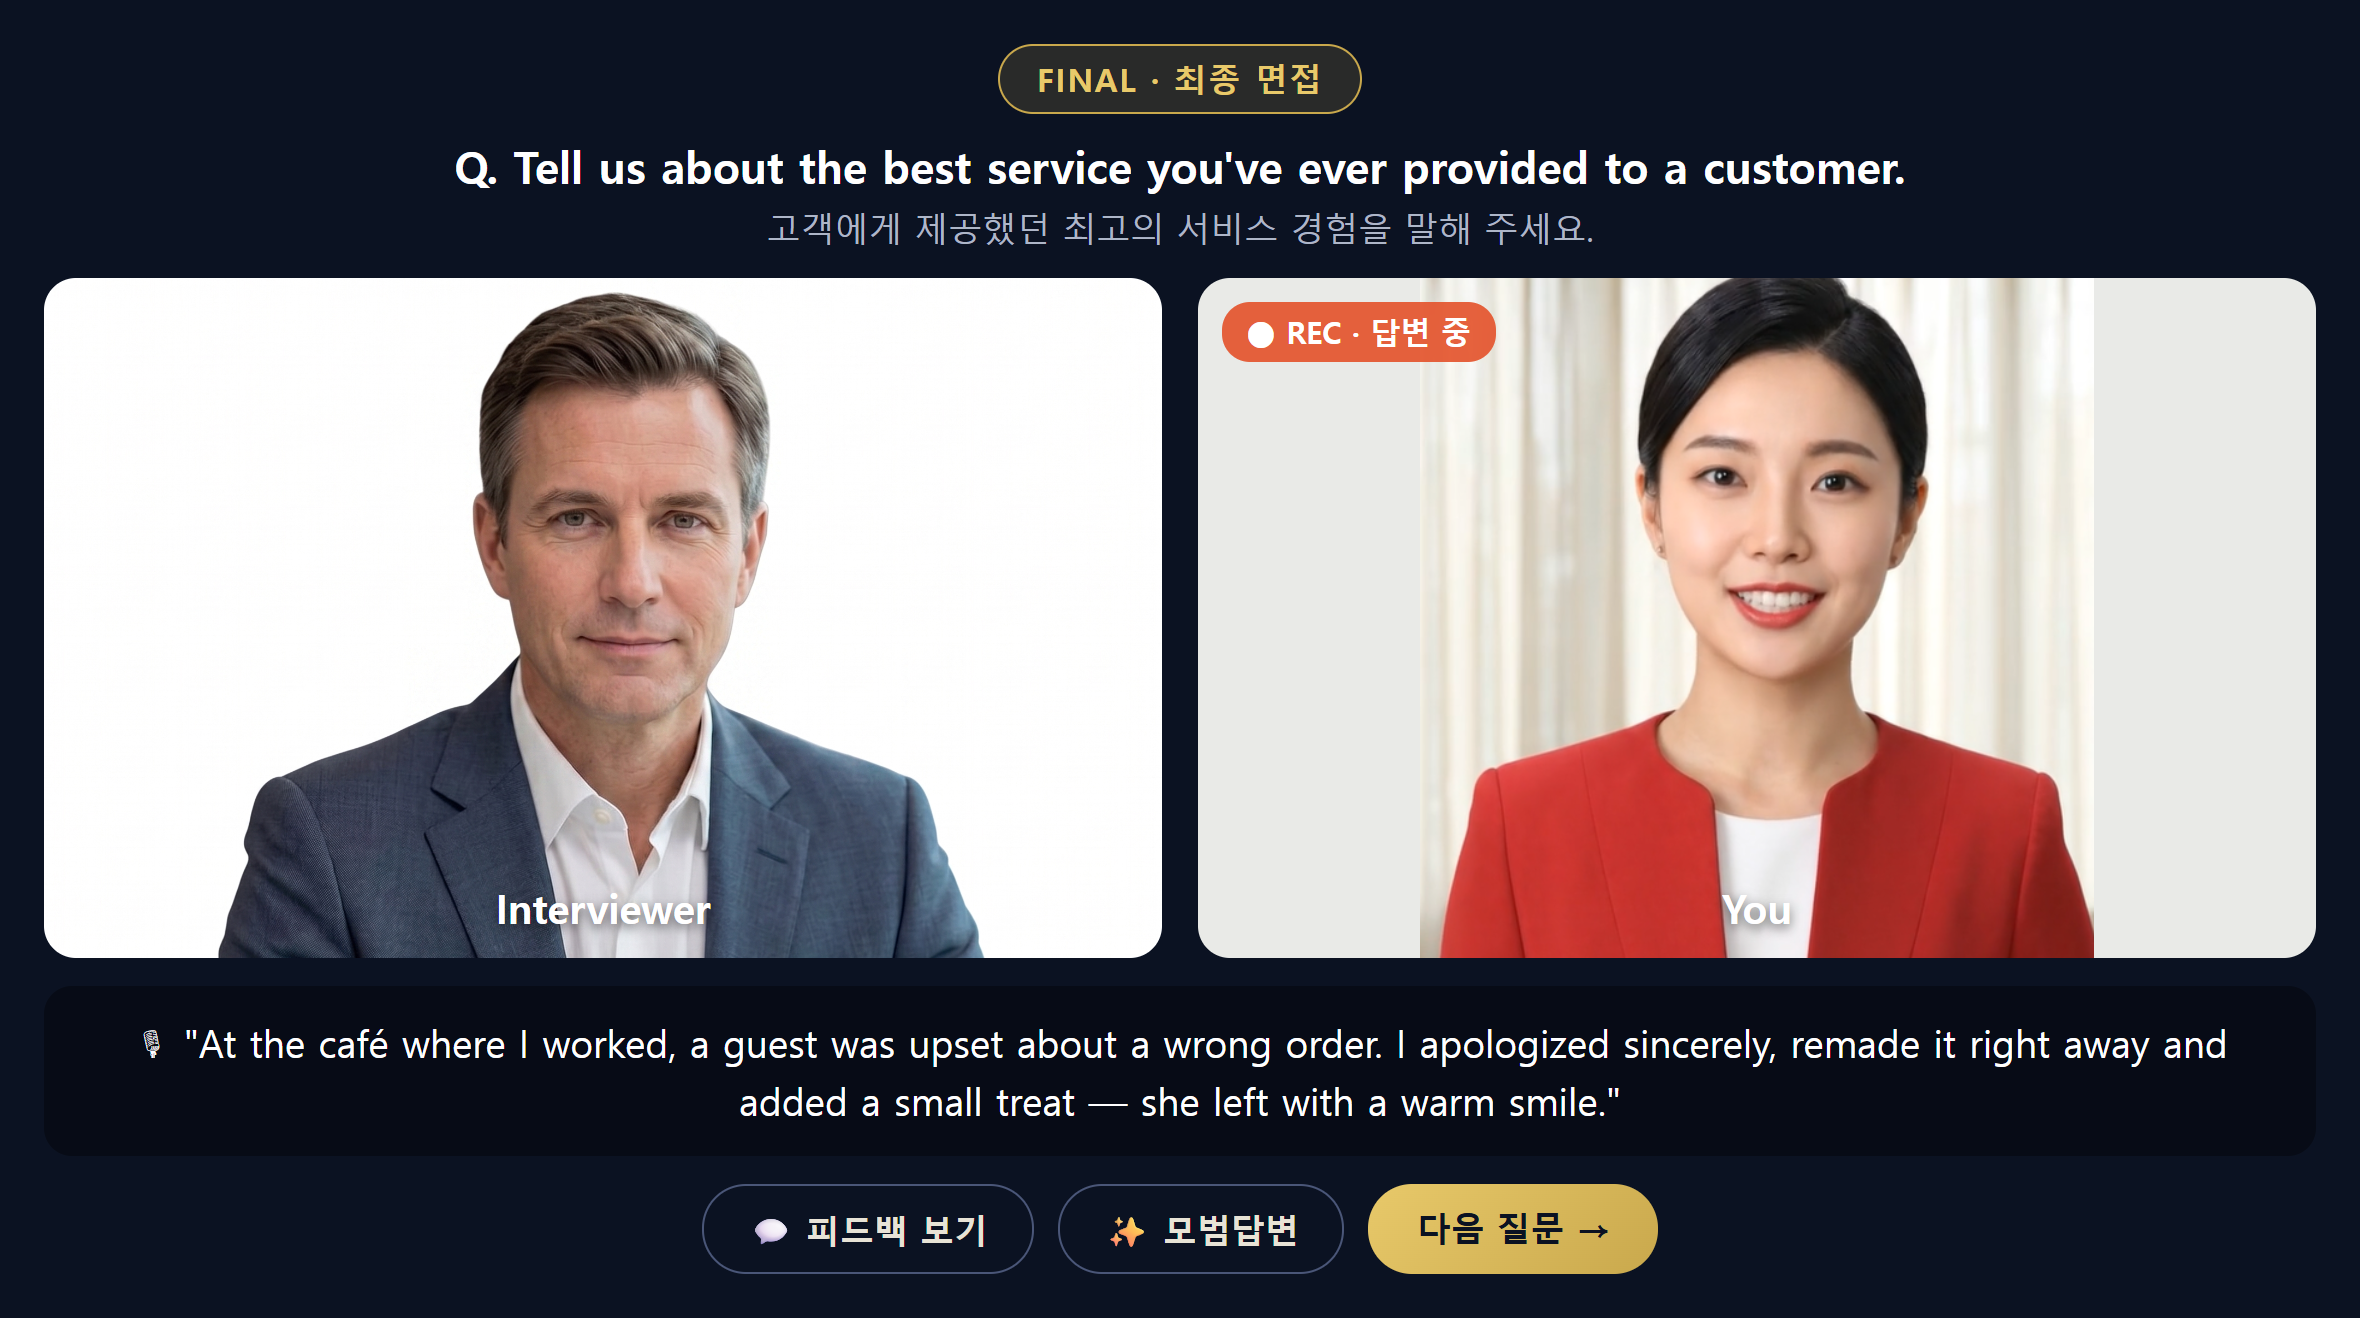
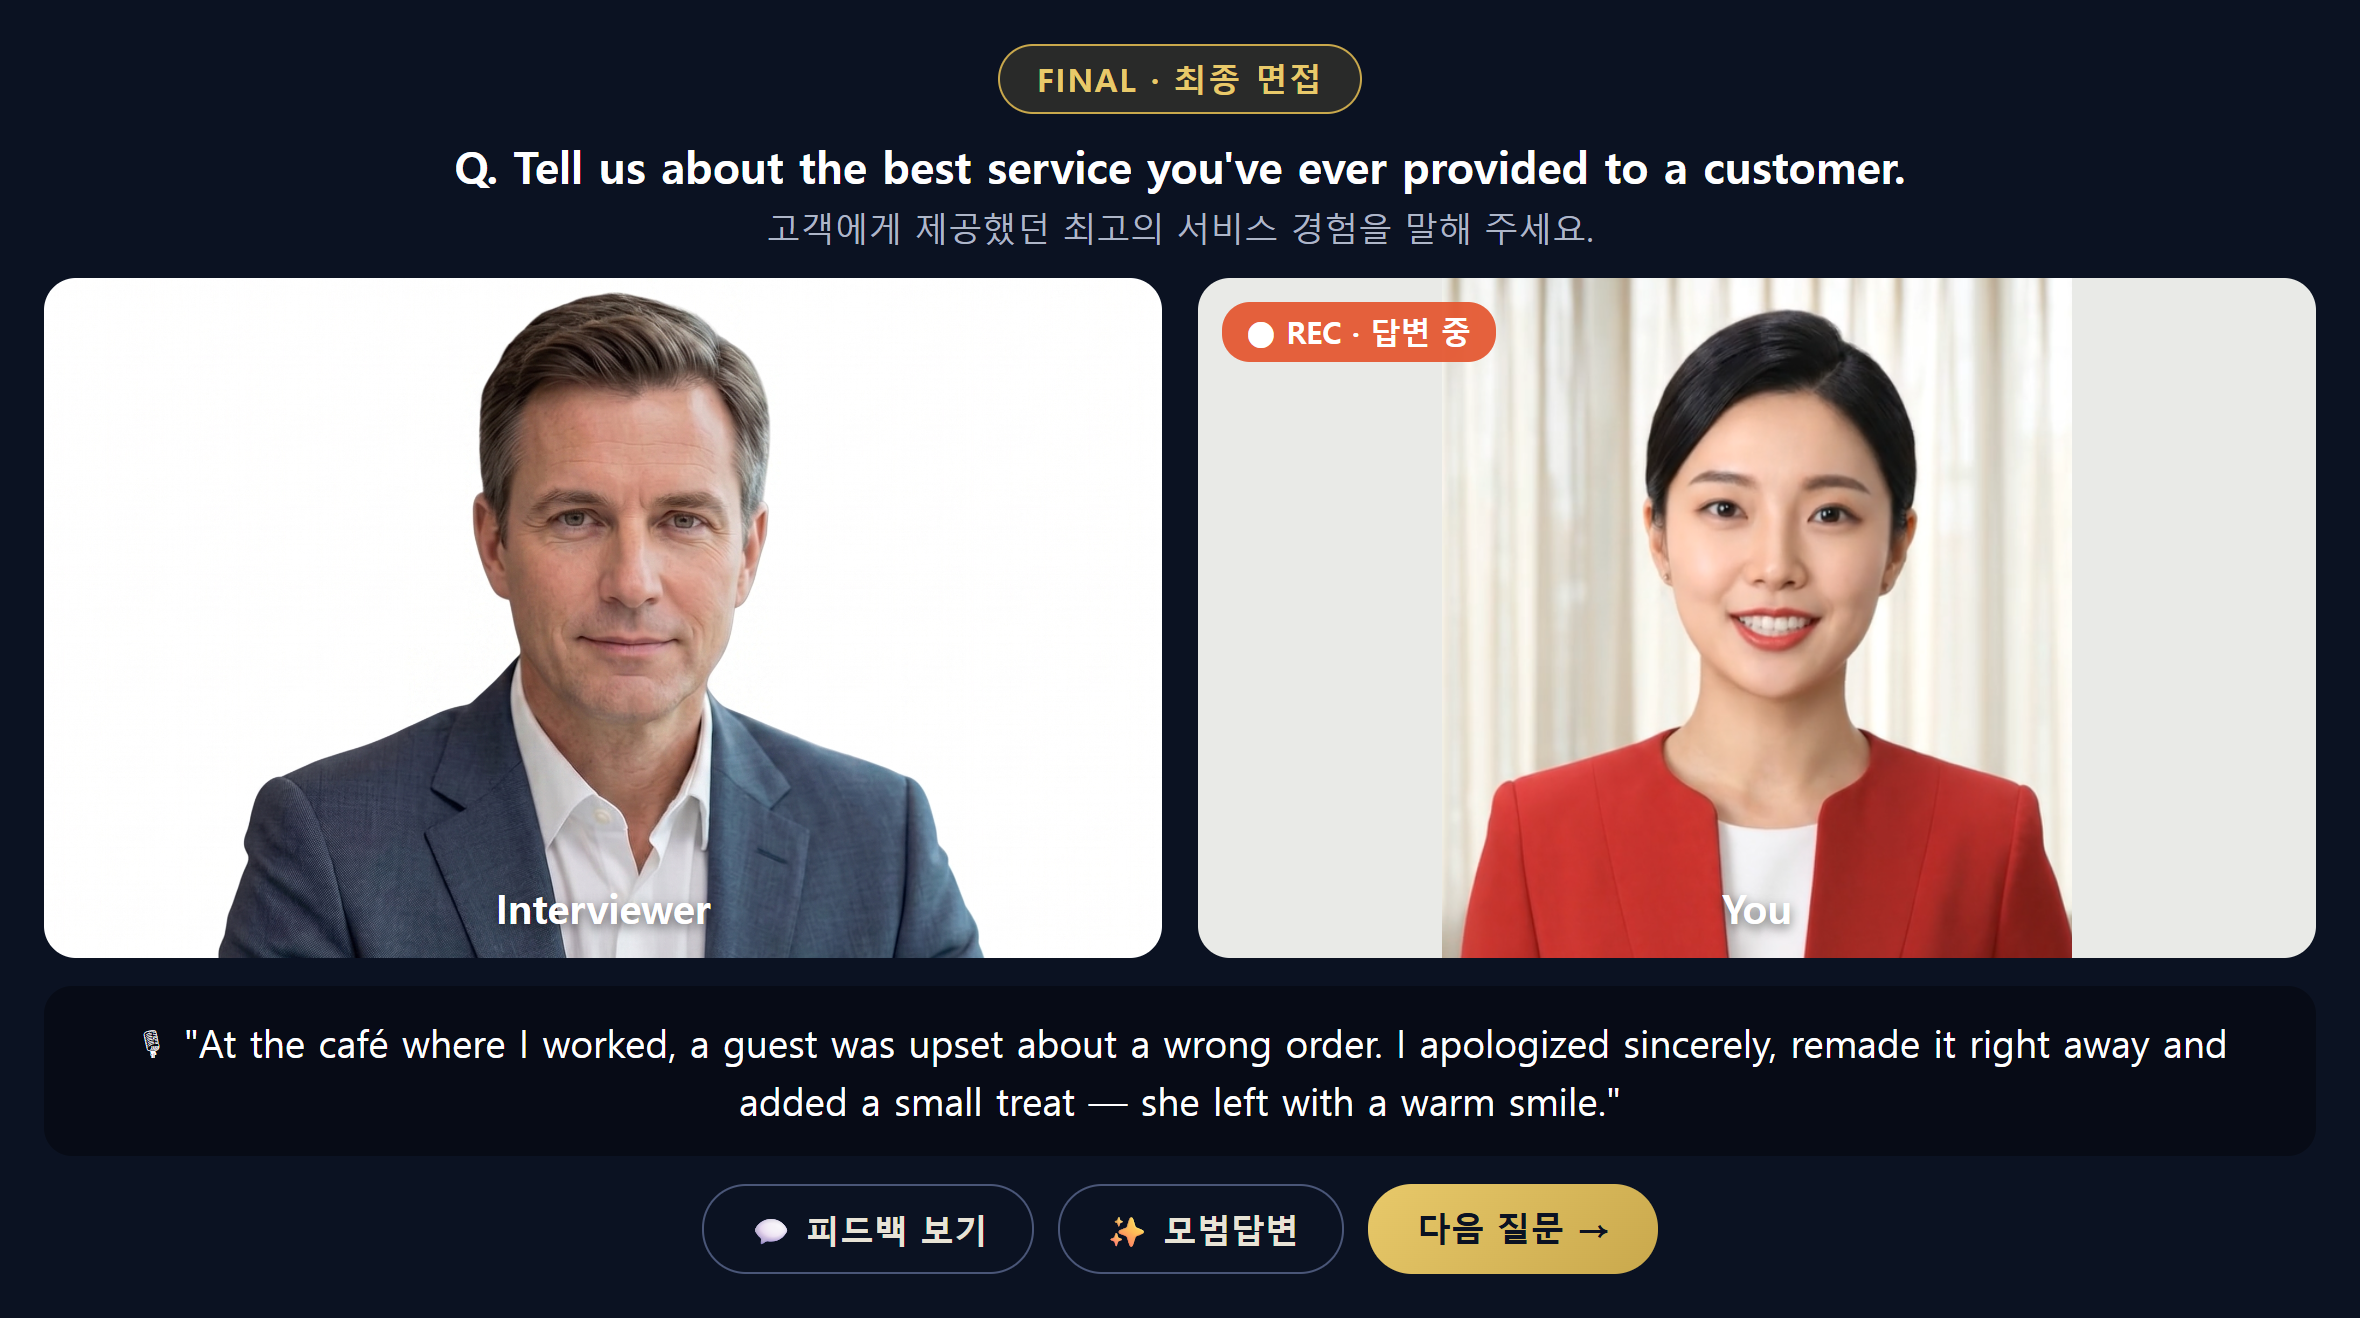
파이널·디스커션 You 높이 조정 — 윗머리 안 잘리게(아이보리 배경 유지, 얼굴 크기 유지)

Changed region(s): [[0.5877, 0.1866, 0.897, 0.7466]]

diff --git a/blog-drafts.html b/blog-drafts.html
@@ -519,7 +519,7 @@ hr{border:none;border-top:1px dashed var(--line);margin:30px 0;}
   <figure><img src="images/shot-disc1.png" alt="1차 디스커션 - 발표 주제와 핵심 포인트"><figcaption>실제 화면 — 1차 디스커션: 발표 주제와 핵심 포인트</figcaption></figure>
   <figure><img src="images/shot-disc2.png" alt="2차 디스커션 - 실전 우선순위 토론 시나리오"><figcaption>실제 화면 — 2차 디스커션: 실전 우선순위 토론 시나리오</figcaption></figure>
   <figure><img src="images/shot-debate.png" alt="싱가포르항공 디베이트 - 주제와 입장 선택"><figcaption>실제 화면 — 싱가포르식 1:1 디베이트: 주제·입장 선택</figcaption></figure>
-  <figure><img src="images/shot-discussion-live.png?v=7" alt="그룹 디스커션 실전 - 두 지망생이 주제로 토론하는 실시간 화면"><figcaption>실제 화면 — 두 지망생이 실시간으로 토론하고, 발언이 자막으로 기록돼요</figcaption></figure>
+  <figure><img src="images/shot-discussion-live.png?v=8" alt="그룹 디스커션 실전 - 두 지망생이 주제로 토론하는 실시간 화면"><figcaption>실제 화면 — 두 지망생이 실시간으로 토론하고, 발언이 자막으로 기록돼요</figcaption></figure>
 
   <h2>⑧ 워드슈팅 — 멈추지 않는 순발력</h2>
   <p>랜덤으로 주어지는 단어나 문장을 받아 60초 안에 즉석에서 영어로 발표해요. 원더풀크루에서는 Qatar처럼 순발력을 보는 면접에 대비하는 즉흥 스피치를, 타이머가 도는 동안 멈추지 않고 말하는 훈련으로 키웁니다.</p>
@@ -534,7 +534,7 @@ hr{border:none;border-top:1px dashed var(--line);margin:30px 0;}
   <p>실전 직전 최종 점검과 종합 실력 분석 리포트, 그리고 1:1 코치 피드백까지. 원더풀크루에서는 그동안의 연습 데이터를 모아 미소·답변·태도를 항목별로 확인하고, 마지막은 코치 피드백으로 실전 준비를 완성합니다.</p>
   <figure><img src="images/Gemini_Generated_Image_9vrkb49vrkb49vrk.png" alt="파이널 종합 분석"></figure>
   <figure><img src="images/shot-final.png" alt="파이널 - 면접관·항공사·영어 엑센트 선택 화면"><figcaption>실제 화면 — 항공사·면접관·엑센트를 골라 실전처럼 마무리해요</figcaption></figure>
-  <figure><img src="images/shot-final-live.png?v=14" alt="파이널 실전 - 남성 면접관과 베스트 서비스 질문·실시간 자막"><figcaption>실제 화면 — 실전처럼 질문을 받고, 답변이 자막으로 실시간 기록돼요</figcaption></figure>
+  <figure><img src="images/shot-final-live.png?v=15" alt="파이널 실전 - 남성 면접관과 베스트 서비스 질문·실시간 자막"><figcaption>실제 화면 — 실전처럼 질문을 받고, 답변이 자막으로 실시간 기록돼요</figcaption></figure>
 
   <hr>
   <p>사진 한 장부터 마지막 1:1 면접까지 — 흩어져 있던 준비를 한 곳에서, 매일 조금씩. 원더풀크루에서는 그 전 과정을 실제 화면으로 직접 연습하며 합격까지 함께 걸어드릴게요.</p>

diff --git a/landing.html b/landing.html
@@ -277,7 +277,7 @@ footer b{color:#fff;}
     <div class="vis-shot" style="margin-top:10px;"><img src="images/shot-disc1.png" alt="1차 디스커션 - 발표 주제와 핵심 포인트 화면"></div>
     <div class="vis-shot" style="margin-top:10px;"><img src="images/shot-disc2.png" alt="2차 디스커션 - 실전 우선순위 토론 시나리오 화면"></div>
     <div class="vis-shot" style="margin-top:10px;"><img src="images/shot-debate.png" alt="싱가포르항공 디베이트 - 주제·입장 선택 화면"></div>
-    <div class="vis-shot" style="margin-top:10px;"><img src="images/shot-discussion-live.png?v=7" alt="그룹 디스커션 실전 - 두 지망생이 주제로 토론하는 실시간 화면"></div>
+    <div class="vis-shot" style="margin-top:10px;"><img src="images/shot-discussion-live.png?v=8" alt="그룹 디스커션 실전 - 두 지망생이 주제로 토론하는 실시간 화면"></div>
     <p>실전 그룹 토론을 항공사별·배경별 시나리오로 연습해요. 발언 순서·논리 전개·매너까지, 그룹 토론에서 평가받는 핵심을 짚어드립니다.</p><div class="card-note"><b>항공사별 디스커션</b>1. Emirates — 1차는 주어진 주제를 정리해 발표, 2차는 실전 기출 상황에서 우선순위를 토론합니다.<br>2. Singapore Airlines — 찬반이 정해지면 AI가 반대 입장에서 맞받아치는 디베이트.<br>3. Qatar — 랜덤 키워드를 받고 즉석에서 1분 영어 발표(워드슈팅).<br>4. 기타 항공사(Etihad·Cathay 등) — 신규 노선·친환경·위기 PR·팀 갈등 등 다양한 기출을 종합 토론.</div>
   </div>
 
@@ -307,7 +307,7 @@ footer b{color:#fff;}
     <h3>파이널 · 종합 분석</h3>
     <div class="vis-shot"><img src="images/Gemini_Generated_Image_9vrkb49vrkb49vrk.png" alt="파이널 종합 분석"></div>
     <div class="vis-shot" style="margin-top:10px;"><img src="images/shot-final.png" alt="파이널 - 면접관·항공사·영어 악센트 선택 화면"></div>
-    <div class="vis-shot" style="margin-top:10px;"><img src="images/shot-final-live.png?v=14" alt="파이널 실전 - 남성 면접관과 베스트 서비스 질문·실시간 자막"></div>
+    <div class="vis-shot" style="margin-top:10px;"><img src="images/shot-final-live.png?v=15" alt="파이널 실전 - 남성 면접관과 베스트 서비스 질문·실시간 자막"></div>
     <p>실전 직전 최종 점검과 종합 실력 분석 리포트, 그리고 1:1 코치 피드백까지. 그동안의 연습을 합격으로 완성하는 마지막 단계예요.</p><div class="card-note"><b>이 기능에서는</b>1. 실전 직전 종합 점검과 그동안의 연습 데이터를 모은 실력 분석 리포트를 받습니다.<br>2. 미소·답변·태도 등 항목별로 부족한 부분을 데이터로 확인해요.<br>3. 마지막은 1:1 코치 피드백으로 실전 준비를 완성합니다.</div>
   </div>
 
